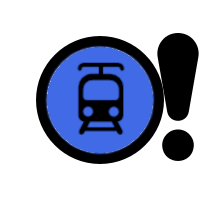
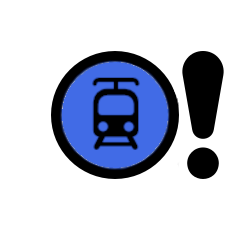
First release commit

diff --git a/Samples/VehicleVisualization/src/mainmapwindow.cpp b/Samples/VehicleVisualization/src/mainmapwindow.cpp
@@ -101,7 +101,6 @@ void MainMapWindow::toogleReceivingMessages(){
     if(!receivingEnabled){
         if(processHandler.startReceiving() == 0){
             statusBar()->showMessage("Receiving started...");
-        } else {
             receivingEnabled = true;
             btn_toogle_receiving->setText("Stop receiving");
         }
@@ -110,6 +109,7 @@ void MainMapWindow::toogleReceivingMessages(){
         btn_toogle_receiving->setText("Start receiving");
 
         processHandler.stopReceiving();
+        statusBar()->showMessage("Receiving stopped...");
     }
 }
 void MainMapWindow::setupMaps(){
@@ -129,11 +129,13 @@ void MainMapWindow::toogleGPS()
         gpsEnabled = true;
         btnToogleGPS->setIcon(QIcon(":/resources/images/gps_on.png"));
         emit startTracker();
+        statusBar()->showMessage("GPS started...");
     } else {
         gpsEnabled = false;
         btnToogleGPS->setIcon(QIcon(":/resources/images/gps_off.png"));
         visualizer->removeGPSPositionPoint();
         tracker->stop();
+        statusBar()->showMessage("GPS stopped...");
     }
 }
 void MainMapWindow::modeSelected(QAction* action){
@@ -174,8 +176,11 @@ void MainMapWindow::modeSelected(QAction* action){
         toggleFollowGPS(true);
 
         // start receiving process
-        processHandler.startReceiving();
-        statusBar()->showMessage("Mode auto, GPS started, receiving started...");
+        if(!receivingEnabled){
+            toogleReceivingMessages();
+            statusBar()->showMessage("Mode auto, GPS started, receiving started...");
+        }
+        statusBar()->showMessage("Mode auto, GPS started, already receiving");
     } else {
         qInfo() << "Something went wrong";
     }
@@ -672,6 +677,7 @@ void MainMapWindow::deleteLogWidgetByMessage(std::shared_ptr<Message> message){
                 if (oldDenm->originatingStationID == newDenm->originatingStationID &&
                       oldDenm->sequenceNumber == newDenm->sequenceNumber) {
                     scrollVerticalLayout->removeWidget(tmp);
+                    tmp->timerRunning = false;
                     tmp->setVisible(false);
                     delete tmp;
                     break;
@@ -683,6 +689,7 @@ void MainMapWindow::deleteLogWidgetByMessage(std::shared_ptr<Message> message){
           LogWidget * tmp = (LogWidget*) scrollVerticalLayout->itemAt(i)->widget();
           if (tmp->message->stationID == message->stationID && tmp->message->GetProtocol() == protocol) {
               scrollVerticalLayout->removeWidget(tmp);
+              tmp->timerRunning = false;
               tmp->setVisible(false);
               delete tmp;
               break;
@@ -697,8 +704,11 @@ void MainMapWindow::deleteLogWidgets(){
 
     QLayoutItem *child;
     while ((child = scrollVerticalLayout->takeAt(0)) != 0)  {
-        scrollVerticalLayout->removeWidget(child->widget());
-        child->widget()->setVisible(false);
+        LogWidget * tmp = (LogWidget*) child->widget();
+        scrollVerticalLayout->removeWidget(tmp);
+        tmp->setVisible(false);
+        tmp->timerRunning = false;
+        delete tmp;
         delete child;
     }
 }

diff --git a/Samples/VehicleVisualization/src/cam.h b/Samples/VehicleVisualization/src/cam.h
@@ -81,12 +81,12 @@ class Cam: public Message {
 
             if(this->stationType == 5){
                 this->imgSrcDefault = ":/resources/images/car_black.png";
-                this->imgSrcAttention = ":/resources/images/car_black.png";
+                this->imgSrcAttention = ":/resources/images/car_black_srem.png";
                 this->typeStr = "Car";                
             }
             else if(this->stationType == 6){
                 this->imgSrcDefault = ":/resources/images/bus_black.png";
-                this->imgSrcAttention = ":/resources/images/bus_black.png";
+                this->imgSrcAttention = ":/resources/images/bus_black_srem.png";
                 this->typeStr = "Bus";
             }
             else if(this->stationType == 11){
@@ -96,17 +96,17 @@ class Cam: public Message {
             }
             else if(this->stationType == 15){ // ROAD SIDE UNIT
                 this->imgSrcDefault = ":/resources/images/rsu_black.png";
-                this->imgSrcAttention = ":/resources/images/rsu_black.png";
+                this->imgSrcAttention = ":/resources/images/rsu_black_srem.png";
                 this->typeStr = "RSU";
             }
             else if(this->stationType == 0){ // UNKNOWN
                 this->imgSrcDefault = ":/resources/images/unknown_black.png";
-                this->imgSrcAttention = ":/resources/images/unknown_black.png";
+                this->imgSrcAttention = ":/resources/images/unknown_black_srem.png";
                 this->typeStr = "Unknown";
             }
             else {
                 this->imgSrcDefault = ":/resources/images/rsu_black.png";
-                this->imgSrcAttention = ":/resources/images/rsu_black.png";
+                this->imgSrcAttention = ":/resources/images/rsu_black_srem.png";
                 this->typeStr = "Unknown";
                 throw std::invalid_argument("This station type is not known");
             }

diff --git a/Samples/VehicleVisualization/src/datahandler.cpp b/Samples/VehicleVisualization/src/datahandler.cpp
@@ -55,10 +55,7 @@ void DataHandler::MessageReceived(std::shared_ptr<Message> message){
     emit MessageToLog(message);
 }
 void DataHandler::clearData(){
-    deleteCamUnits();
-    deleteMapemUnits();
-    deleteSpatemMessages();
-    deleteDenmMessages();
+    clearUnitsAndMessages();
     deleteAllMessages();
 }
 void DataHandler::clearUnitsAndMessages(){
@@ -266,8 +263,6 @@ void DataHandler::SREMReceived(std::shared_ptr<Srem> newSrem){
         senderCam->lastSremUpdate = QTime::currentTime();
         senderCam->isSrcAttention = true;
     }
-
-    //qInfo() << "SREM received";
 }
 void DataHandler::checkCamsForSrem(){
     //TODO - should I use mutex because of deleting?
@@ -275,7 +270,7 @@ void DataHandler::checkCamsForSrem(){
         if(!camUnits.at(i)->lastSremUpdate.isNull()){ // TODO test this
             QTime now = QTime::currentTime();
             int diff = camUnits.at(i)->lastSremUpdate.secsTo(now);
-            qInfo() << diff;
+            //qInfo() << diff;
 
             if(diff >= 10){
                 camUnits.at(i)->lastSremUpdate = QTime(); // set to null

diff --git a/Samples/VehicleVisualization/src/logwidget.cpp b/Samples/VehicleVisualization/src/logwidget.cpp
@@ -50,6 +50,12 @@ void LogWidget::setWidgetInfo(std::shared_ptr <Message> message) {
             lifeTimeOfUnit = 10;
         } else if(message->GetProtocol() == "Mapem"){
             lifeTimeOfUnit = 120;
+        } else if(message->GetProtocol() == "Srem"){
+            lifeTimeOfUnit = 60;
+        } else if(message->GetProtocol() == "Spatem"){
+            lifeTimeOfUnit = 60;
+        } else if(message->GetProtocol() == "Cam"){
+            lifeTimeOfUnit = 60;
         } else {
             lifeTimeOfUnit = 60;
         }

diff --git a/Samples/VehicleVisualization/src/logwidget.h b/Samples/VehicleVisualization/src/logwidget.h
@@ -23,6 +23,7 @@ public:
     QTime lastUpdateTime;
 
     bool widgetClickable;
+    bool timerRunning = false;
 
     std::shared_ptr <Message> message;
 
@@ -34,7 +35,7 @@ protected:
     void mousePressEvent(QMouseEvent *event) override;
 
 private:
-    bool timerRunning = false;
+
     int lifeTimeOfUnit = 5 * 60; // in seconds
 signals:
     void clicked(std::shared_ptr <Message> message);
